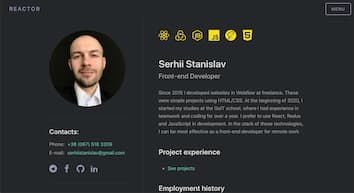
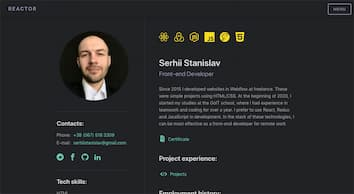
code refactoring

diff --git a/src/components/NavBar/NavBar.module.scss b/src/components/NavBar/NavBar.module.scss
@@ -91,60 +91,37 @@
       flex-direction: column;
       width: 100%;
       list-style: none;
-      background-color: skyblue;
+      // background-color: skyblue;
 
       .NavBarLink {
-        text-decoration: none;
         padding: 15px;
         font-size: 22px;
-        color: white;
-        background-color: inherit;
-        border-radius: 4;
+        text-decoration: none;
+        color: $primaryBlackColor;
+        border-radius: 4px;
 
         @media screen and (min-width: 768px) {
           fontsize: 16;
         }
 
         &:not(:last-child) {
-          margin-bottom: 5;
+          margin-bottom: 5px;
         }
 
         &:hover {
-          color: yellow;
-          background-color: blue;
+          color: $primaryWhiteColor;
+          background-color: $primaryBg;
         }
       }
 
       .activeNavBarLink {
-        background-color: red;
-        color: green;
+        background-color: $primaryBg;
+        color: $primaryWhiteColor;
 
         &:hover {
-          color: yellow;
           background-color: black;
         }
       }
     }
-
-    // .childrenWrap {
-    //   @media screen and (max-width: 767px) {
-    //     width: 100%;
-    //     max-width: 414px;
-    //   }
-    // }
-
-    // .CloseModalBtn {
-    //   position: absolute;
-    //   top: 0;
-    //   right: 0;
-    //   padding: 9px;
-    //   width: 44px;
-    //   height: 44px;
-    //   cursor: pointer;
-
-    //   &:hover {
-    //     animation: rotateCloseBtn 600ms forwards;
-    //   }
-    // }
   }
 }

diff --git a/src/components/Resume/ResumeStyles.js b/src/components/Resume/ResumeStyles.js
@@ -73,7 +73,7 @@ export default createUseStyles({
 
   // Aside
   aside: {
-    paddingTop: 90,
+    paddingTop: 100,
     paddingBottom: 30,
     // marginBottom: 30,
 
@@ -83,6 +83,7 @@ export default createUseStyles({
     },
 
     [`@media (min-width: ${refs.desktop}px)`]: {
+      paddingTop: 110,
       paddingRight: 50,
       width: 320,
       height: '100vh',
@@ -214,7 +215,7 @@ export default createUseStyles({
         '& a': {
           paddingLeft: 10,
           fontWeight: 400,
-          color: refs.primaryColor,
+          color: refs.linkColor,
 
           [`@media (min-width: ${refs.tablet}px) and (max-width: ${refs.desktopMax}px)`]: {
             display: 'block',
@@ -247,7 +248,7 @@ export default createUseStyles({
       display: 'block',
 
       '& svg': {
-        fill: refs.primaryColor,
+        fill: refs.linkColor,
         width: 30,
         height: 30,
 
@@ -375,7 +376,7 @@ export default createUseStyles({
     },
 
     [`@media (min-width: ${refs.desktop}px)`]: {
-      paddingTop: 90,
+      paddingTop: 110,
       paddingLeft: 50,
       width: 550,
       height: '100vh',

diff --git a/public/index.html b/public/index.html
@@ -7,11 +7,11 @@
     <meta name="theme-color" content="#000000" />
     <meta
       name="description"
-      content="Reactor - Serhii Stanislav's website ☆ React Front-end Developer ☆ Ukraine, Kyiv"
+      content="Reactor - Serhii Stanislav ☆ React Front-end Developer ☆ Ukraine, Kyiv"
     />
     <link rel="apple-touch-icon" href="%PUBLIC_URL%/logo192.png" />
     <link rel="manifest" href="%PUBLIC_URL%/manifest.json" />
-    <title>Reactor - Front-end Developer</title>
+    <title>Serhii Stanislav - React Front-end Developer</title>
     <meta content="Reactor" property="og:title" />
     <meta
       content="Reactor ☆ Serhii Stanislav - Front-end Developer ☆ React JavaScript ☆ Ukraine, Kyiv"
@@ -19,7 +19,7 @@
     />
     <meta
       name="keywords"
-      content="reactor frontend serhii stanislav front-end developer react"
+      content="react frontend developer serhii stanislav front-end reactor"
     />
     <meta
       content="%PUBLIC_URL%/reactor-cover-1200x630.jpg"

diff --git a/src/components/Portfolio/Portfolio.jsx b/src/components/Portfolio/Portfolio.jsx
@@ -1,19 +1,20 @@
-import { useState, useEffect } from 'react';
+// import { useState, useEffect } from 'react';
 import useStyles from './PortfolioStyles';
 import AppThumb from './AppThumb';
 import AppMeta from './AppMeta';
-// import { projects } from './projects.json';
-import api from '../utils/projectsAPI';
+import { projects } from './projects.json';
+// import api from '../utils/projectsAPI';
 
-const { log } = console;
+// const { log } = console;
 
 const Portfolio = () => {
-  const [projects, setProjects] = useState([]);
+  // const [projects, setProjects] = useState([]);
   const s = useStyles();
 
-  useEffect(() => api.getAllProjects().then(res => setProjects(res)), []);
+  // Get all projects
+  // useEffect(() => api.getAllProjects().then(res => setProjects(res)), []);
 
-  log(projects);
+  // log(projects);
 
   return (
     <section className={s.Portfolio}>

diff --git a/src/AppStyles.js b/src/AppStyles.js
@@ -1,8 +1,6 @@
 import { createUseStyles } from 'react-jss';
-// import { refs } from './components/refs';
 
 export default createUseStyles({
-  // Portfolio
   AppWrap: {
     height: '100vh',
     overflow: 'scroll',
@@ -12,14 +10,5 @@ export default createUseStyles({
     '&::-webkit-scrollbar': {
       display: 'none', // Chrome, Safari, Opera
     },
-
-    // '& article': {
-    //   // paddingTop: 60,
-    //   // paddingBottom: 80,
-    // },
-
-    // '& h1': {
-    //   marginBottom: 40,
-    // },
   },
 });

diff --git a/src/index.js b/src/index.js
@@ -11,7 +11,7 @@ import './styles/base.scss';
 ReactDOM.render(
   <React.StrictMode>
     <Provider store={store.store}>
-      <PersistGate loading={<p>Loading...</p>} persistor={store.persistor}>
+      <PersistGate loading={<p>Loading!</p>} persistor={store.persistor}>
         <Router>
           <App />
         </Router>

diff --git a/src/components/Main/MainStyles.js b/src/components/Main/MainStyles.js
@@ -67,7 +67,7 @@ export default createUseStyles({
     justifyContent: 'center',
     alignItems: 'center',
     width: '100%',
-    height: 'calc(100vh - 180px)',
+    height: '100vh',
     fontSize: 18,
     fontWeight: 600,
     letterSpacing: 3,

diff --git a/src/components/Header/HeaderStyles.js b/src/components/Header/HeaderStyles.js
@@ -15,6 +15,7 @@ export default createUseStyles({
     zIndex: 1,
     backgroundColor: '#212225a1',
     backdropFilter: 'blur(10px)',
+    boxShadow: refs.headerShadow,
 
     // [`@media (max-width: 767px)`]: {
     //   position: 'fixed',

diff --git a/src/components/refs.js b/src/components/refs.js
@@ -30,6 +30,7 @@ export const refs = {
 
   // Shadows
   itemShadow: 'rgba(99, 99, 99, 0.5) 0px 2px 5px -1px',
+  headerShadow: 'rgba(0, 0, 0, 0.5) 0px 2px 5px -1px',
 
   // Timing function
   cubicBezier: 'cubic-bezier(0.4, 0, 0.2, 1)',

diff --git a/src/styles/_colors.scss b/src/styles/_colors.scss
@@ -5,6 +5,7 @@ $todoColor: rgb(52, 51, 141);
 $primaryWhiteColor: #ffffff;
 $secondaryWhiteColor: #ffffff96;
 $trinityWhiteColor: #ffffff52;
+$primaryBlackColor: #252729;
 $textWhiteColor: #e0e0e0;
 
 // Movies

diff --git a/src/styles/_backgrounds.scss b/src/styles/_backgrounds.scss
@@ -1,7 +1,7 @@
 $primaryBg: #252729;
 $accentBg: #9697b6;
 $darkBg: #212225;
-$backdropBg: #00000052;
+$backdropBg: #00000082;
 // $secondatyBg: #353a44;
 // $todoBg: #f0f3f7;
 // $primaryYellow: #ffe13a;

diff --git a/src/components/Portfolio/PortfolioStyles.js b/src/components/Portfolio/PortfolioStyles.js
@@ -4,6 +4,7 @@ import { refs } from '../refs';
 export default createUseStyles({
   // Portfolio (section)
   Portfolio: {
+    paddingBottom: 80,
     // backgroundColor: 'skyblue',
 
     '& > ul': {
